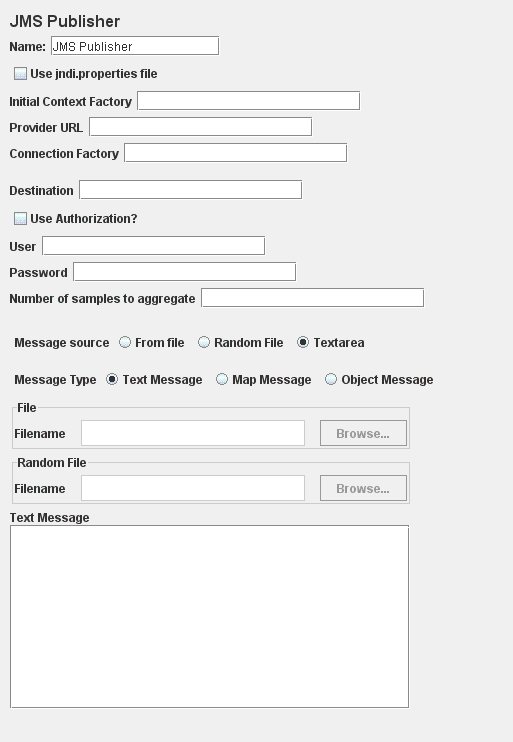
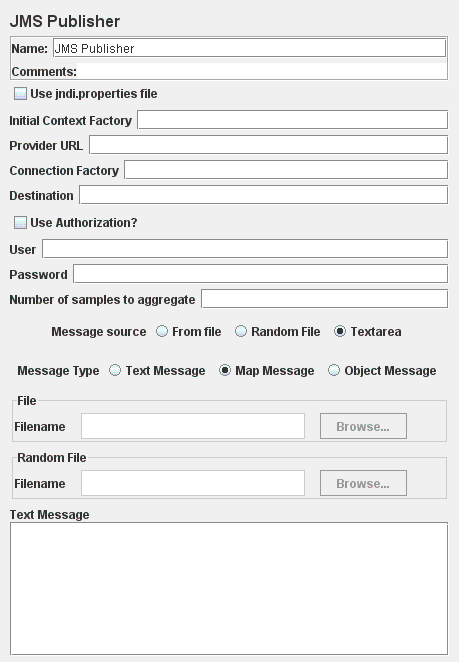
Tidy up the JMS GUIs
git-svn-id: https://svn.apache.org/repos/asf/jakarta/jmeter/trunk@957326 13f79535-47bb-0310-9956-ffa450edef68

Former-commit-id: 39869c7a04cbe3427a2ed4b720968cf6ac578c7e

diff --git a/src/protocol/jms/org/apache/jmeter/protocol/jms/control/gui/JMSPublisherGui.java b/src/protocol/jms/org/apache/jmeter/protocol/jms/control/gui/JMSPublisherGui.java
@@ -18,36 +18,31 @@
 
 package org.apache.jmeter.protocol.jms.control.gui;
 
+import java.awt.BorderLayout;
 import java.awt.Dimension;
-import java.awt.Font;
-import java.awt.event.ActionEvent;
 
 import javax.swing.JCheckBox;
 import javax.swing.JOptionPane;
-import javax.swing.JLabel;
 import javax.swing.JPanel;
-import javax.swing.border.Border;
-import javax.swing.border.EmptyBorder;
 import javax.swing.event.ChangeEvent;
 import javax.swing.event.ChangeListener;
 
+import org.apache.jmeter.gui.util.FilePanel;
+import org.apache.jmeter.gui.util.JLabeledRadioI18N;
+import org.apache.jmeter.gui.util.VerticalPanel;
+import org.apache.jmeter.protocol.jms.sampler.PublisherSampler;
 import org.apache.jmeter.samplers.gui.AbstractSamplerGui;
 import org.apache.jmeter.testelement.TestElement;
 import org.apache.jmeter.util.JMeterUtils;
-import org.apache.jmeter.gui.util.FilePanel;
-import org.apache.jmeter.gui.util.JLabeledRadioI18N;
-import org.apache.jorphan.gui.JLabeledTextField;
 import org.apache.jorphan.gui.JLabeledTextArea;
-import org.apache.jorphan.gui.layout.VerticalLayout;
-
-import org.apache.jmeter.protocol.jms.sampler.PublisherSampler;
+import org.apache.jorphan.gui.JLabeledTextField;
 
 /**
  * This is the GUI for JMS Publisher <br>
  * Created on: October 13, 2003
  *
  */
-public class JMSPublisherGui extends AbstractSamplerGui implements java.awt.event.ActionListener, ChangeListener {
+public class JMSPublisherGui extends AbstractSamplerGui implements ChangeListener {
 
     private static final long serialVersionUID = 240L;
 
@@ -101,10 +96,6 @@ public class JMSPublisherGui extends AbstractSamplerGui implements java.awt.even
     private final JLabeledTextArea textMessage = new JLabeledTextArea(JMeterUtils.getResString("jms_text_message"));
 
     private final JLabeledRadioI18N msgChoice = new JLabeledRadioI18N("jms_message_type", MSGTYPES_ITEMS, TEXT_MSG_RSC); //$NON-NLS-1$
-
-    private final JPanel lookup = new JPanel();
-
-    private final JPanel messagePanel = new JPanel();
 
     public JMSPublisherGui() {
         init();
@@ -169,59 +160,35 @@ public class JMSPublisherGui extends AbstractSamplerGui implements java.awt.even
      * SOAPSampler, since it is common.
      */
     private void init() {
-        this.setLayout(new VerticalLayout(5, VerticalLayout.LEFT, VerticalLayout.TOP));
+        setLayout(new BorderLayout());
+        setBorder(makeBorder());
+        add(makeTitlePanel(), BorderLayout.NORTH);
 
-        // MAIN PANEL
-        JPanel mainPanel = new JPanel();
-        Border margin = new EmptyBorder(10, 10, 5, 10);
-        mainPanel.setBorder(margin);
-        mainPanel.setLayout(new VerticalLayout(5, VerticalLayout.LEFT));
+        JPanel mainPanel = new VerticalPanel();
+        add(mainPanel, BorderLayout.CENTER);
+        
+        mainPanel.add(useProperties);
+        mainPanel.add(jndiICF);
+        mainPanel.add(urlField);
+        mainPanel.add(jndiConnFac);
+        mainPanel.add(jmsDestination);
+        mainPanel.add(useAuth);
+        mainPanel.add(jmsUser);
+        mainPanel.add(jmsPwd);
+        mainPanel.add(iterations);
 
-        // TITLE
-        JLabel panelTitleLabel = new JLabel(getStaticLabel());
-        Font curFont = panelTitleLabel.getFont();
-        int curFontSize = curFont.getSize();
-        curFontSize += 4;
-        panelTitleLabel.setFont(new Font(curFont.getFontName(), curFont.getStyle(), curFontSize));
-        mainPanel.add(panelTitleLabel);
-        // NAME
-        mainPanel.add(getNamePanel());
-
-        // Button for browsing webservice wsdl
-
-        lookup.setLayout(new VerticalLayout(6, VerticalLayout.LEFT));
-        mainPanel.add(lookup);
-        lookup.add(useProperties);
-        useProperties.addChangeListener(this);
-        lookup.add(jndiICF);
-        lookup.add(urlField);
-        lookup.add(jndiConnFac);
-
-        configChoice.addChangeListener(this);
-        msgChoice.addChangeListener(this);
-
-        JPanel commonParams = new JPanel();
-        commonParams.setLayout(new VerticalLayout(6, VerticalLayout.LEFT));
-        mainPanel.add(commonParams);
-        commonParams.add(jmsDestination);
-        commonParams.add(useAuth);
-        commonParams.add(jmsUser);
-        commonParams.add(jmsPwd);
-        commonParams.add(iterations);
-
-        messagePanel.setLayout(new VerticalLayout(3, VerticalLayout.LEFT));
-        messagePanel.add(configChoice);
-        messagePanel.add(msgChoice);
-        messagePanel.add(messageFile);
-        messagePanel.add(randomFile);
-        messagePanel.add(textMessage);
-        mainPanel.add(messagePanel);
-
-        Dimension pref = new Dimension(400, 200);
+        mainPanel.add(configChoice);
+        mainPanel.add(msgChoice);
+        mainPanel.add(messageFile);
+        mainPanel.add(randomFile);
+        mainPanel.add(textMessage);
+        Dimension pref = new Dimension(400, 150);
         textMessage.setPreferredSize(pref);
 
-        // we have to add the gui to the change listener
-        this.add(mainPanel);
+        useProperties.addChangeListener(this);
+        useAuth.addChangeListener(this);
+        configChoice.addChangeListener(this);
+        msgChoice.addChangeListener(this);
     }
 
     @Override
@@ -269,31 +236,20 @@ public class JMSPublisherGui extends AbstractSamplerGui implements java.awt.even
     }
 
     /**
-     * method from ActionListener
-     *
-     * @param event
-     *            that occurred
-     */
-    public void actionPerformed(ActionEvent event) {
-    }
-
-    /**
      * When a widget state changes, it will notify this class so we can
      * enable/disable the correct items.
      */
     public void stateChanged(ChangeEvent event) {
-        if (event.getSource() == this.configChoice) {
-            updateConfig(this.configChoice.getText());
-        } else if (event.getSource() == this.msgChoice) {
-            updateMessageType(this.msgChoice.getText());
+        if (event.getSource() == configChoice) {
+            updateConfig(configChoice.getText());
+        } else if (event.getSource() == msgChoice) {
+            updateMessageType(msgChoice.getText());
         } else if (event.getSource() == useProperties) {
-            if (useProperties.isSelected()) {
-                this.jndiICF.setEnabled(false);
-                this.urlField.setEnabled(false);
-            } else {
-                this.jndiICF.setEnabled(true);
-                this.urlField.setEnabled(true);
-            }
+            jndiICF.setEnabled(!useProperties.isSelected());
+            urlField.setEnabled(!useProperties.isSelected());
+        } else if (event.getSource() == useAuth) {
+            jmsUser.setEnabled(!useAuth.isSelected());
+            jmsPwd.setEnabled(!useAuth.isSelected());
         }
     }
 

diff --git a/src/protocol/jms/org/apache/jmeter/protocol/jms/control/gui/JMSSubscriberGui.java b/src/protocol/jms/org/apache/jmeter/protocol/jms/control/gui/JMSSubscriberGui.java
@@ -18,31 +18,26 @@
 
 package org.apache.jmeter.protocol.jms.control.gui;
 
-import java.awt.Font;
-import java.awt.event.ActionEvent;
+import java.awt.BorderLayout;
 
 import javax.swing.JCheckBox;
-import javax.swing.JLabel;
 import javax.swing.JPanel;
-import javax.swing.border.Border;
-import javax.swing.border.EmptyBorder;
 import javax.swing.event.ChangeEvent;
 import javax.swing.event.ChangeListener;
 
+import org.apache.jmeter.gui.util.JLabeledRadioI18N;
+import org.apache.jmeter.gui.util.VerticalPanel;
+import org.apache.jmeter.protocol.jms.sampler.SubscriberSampler;
 import org.apache.jmeter.samplers.gui.AbstractSamplerGui;
 import org.apache.jmeter.testelement.TestElement;
 import org.apache.jmeter.util.JMeterUtils;
 import org.apache.jorphan.gui.JLabeledTextField;
-import org.apache.jorphan.gui.layout.VerticalLayout;
-
-import org.apache.jmeter.gui.util.JLabeledRadioI18N;
-import org.apache.jmeter.protocol.jms.sampler.SubscriberSampler;
 
 /**
  * This is the GUI for JMS Subscriber <br>
  *
  */
-public class JMSSubscriberGui extends AbstractSamplerGui implements java.awt.event.ActionListener, ChangeListener {
+public class JMSSubscriberGui extends AbstractSamplerGui implements ChangeListener {
 
     private static final long serialVersionUID = 240L;
 
@@ -76,7 +71,7 @@ public class JMSSubscriberGui extends AbstractSamplerGui implements java.awt.eve
     private final JCheckBox readResponse =
         new JCheckBox(JMeterUtils.getResString("jms_read_response"), true); // $NON-NLS-1$
 
-    private JLabeledTextField timeout = 
+    private final JLabeledTextField timeout = 
         new JLabeledTextField(JMeterUtils.getResString("jms_timeout")); //$NON-NLS-1$
 
     //++ Do not change these strings; they are used in JMX files to record the button settings
@@ -90,8 +85,6 @@ public class JMSSubscriberGui extends AbstractSamplerGui implements java.awt.eve
 
     private final JLabeledRadioI18N clientChoice =
         new JLabeledRadioI18N("jms_client_type", CLIENT_ITEMS, RECEIVE_RSC); // $NON-NLS-1$
-
-    private final JPanel lookup = new JPanel();
 
     public JMSSubscriberGui() {
         init();
@@ -137,48 +130,29 @@ public class JMSSubscriberGui extends AbstractSamplerGui implements java.awt.eve
      * SOAPSampler, since it is common.
      */
     private void init() {
-        this.setLayout(new VerticalLayout(5, VerticalLayout.LEFT, VerticalLayout.TOP));
+        setLayout(new BorderLayout());
+        setBorder(makeBorder());
+        add(makeTitlePanel(), BorderLayout.NORTH);
 
-        // MAIN PANEL
-        JPanel mainPanel = new JPanel();
-        Border margin = new EmptyBorder(10, 10, 5, 10);
-        mainPanel.setBorder(margin);
-        mainPanel.setLayout(new VerticalLayout(5, VerticalLayout.LEFT));
+        JPanel mainPanel = new VerticalPanel();
+        add(mainPanel, BorderLayout.CENTER);
+        
+        mainPanel.add(useProperties);
+        mainPanel.add(jndiICF);
+        mainPanel.add(urlField);
+        mainPanel.add(jndiConnFac);
+        mainPanel.add(jmsDestination);
+        mainPanel.add(useAuth);
+        mainPanel.add(jmsUser);
+        mainPanel.add(jmsPwd);
+        mainPanel.add(iterations);
 
-        // TITLE
-        JLabel panelTitleLabel = new JLabel(getStaticLabel());
-        Font curFont = panelTitleLabel.getFont();
-        int curFontSize = curFont.getSize();
-        curFontSize += 4;
-        panelTitleLabel.setFont(new Font(curFont.getFontName(), curFont.getStyle(), curFontSize));
-        mainPanel.add(panelTitleLabel);
-        // NAME
-        mainPanel.add(getNamePanel());
+        mainPanel.add(readResponse);
+        mainPanel.add(timeout);
+        mainPanel.add(clientChoice);
 
-        // Button for browsing webservice wsdl
-
-        lookup.setLayout(new VerticalLayout(6, VerticalLayout.LEFT));
-        mainPanel.add(lookup);
-        lookup.add(useProperties);
         useProperties.addChangeListener(this);
-        lookup.add(jndiICF);
-        lookup.add(urlField);
-        lookup.add(jndiConnFac);
-
-        JPanel commonParams = new JPanel();
-        commonParams.setLayout(new VerticalLayout(6, VerticalLayout.LEFT));
-        mainPanel.add(commonParams);
-        commonParams.add(jmsDestination);
-        commonParams.add(useAuth);
-        commonParams.add(jmsUser);
-        commonParams.add(jmsPwd);
-        commonParams.add(iterations);
-        commonParams.add(readResponse);
-        commonParams.add(timeout);
-        commonParams.add(clientChoice);
-
-        // we have to add the gui to the change listener
-        this.add(mainPanel);
+        useAuth.addChangeListener(this);
     }
 
     /**
@@ -220,29 +194,16 @@ public class JMSSubscriberGui extends AbstractSamplerGui implements java.awt.eve
     }
 
     /**
-     * method from ActionListener
-     *
-     * @param event
-     *            that occurred
-     */
-    public void actionPerformed(ActionEvent event) {
-        if (event.getSource() == useProperties) {
-        }
-    }
-
-    /**
      * When the state of a widget changes, it will notify the gui. the method
      * then enables or disables certain parameters.
      */
     public void stateChanged(ChangeEvent event) {
         if (event.getSource() == useProperties) {
-            if (useProperties.isSelected()) {
-                this.jndiICF.setEnabled(false);
-                this.urlField.setEnabled(false);
-            } else {
-                this.jndiICF.setEnabled(true);
-                this.urlField.setEnabled(true);
-            }
+            jndiICF.setEnabled(!useProperties.isSelected());
+            urlField.setEnabled(!useProperties.isSelected());
+        } else if (event.getSource() == useAuth) {
+            jmsUser.setEnabled(!useAuth.isSelected());
+            jmsPwd.setEnabled(!useAuth.isSelected());
         }
     }
 }

diff --git a/src/protocol/jms/org/apache/jmeter/protocol/jms/control/gui/JMSSamplerGui.java b/src/protocol/jms/org/apache/jmeter/protocol/jms/control/gui/JMSSamplerGui.java
@@ -186,8 +186,6 @@ public class JMSSamplerGui extends AbstractSamplerGui {
         setBorder(makeBorder());
         add(makeTitlePanel(), BorderLayout.NORTH);
 
-        Box mainPanel = Box.createVerticalBox();
-
         JPanel jmsQueueingPanel = new JPanel(new BorderLayout());
         jmsQueueingPanel.setBorder(BorderFactory.createTitledBorder(BorderFactory.createEtchedBorder(),
                 JMeterUtils.getResString("jms_queueing"))); //$NON-NLS-1$
@@ -203,8 +201,6 @@ public class JMSSamplerGui extends AbstractSamplerGui {
         JPanel receiveQueuePanel = new JPanel(new BorderLayout(5, 0));
         receiveQueuePanel.add(receiveQueue);
         jmsQueueingPanel.add(receiveQueuePanel, BorderLayout.SOUTH);
-
-        JPanel jndiPanel = createJNDIPanel();
 
         JPanel messagePanel = new JPanel(new BorderLayout());
         messagePanel.setBorder(BorderFactory.createTitledBorder(BorderFactory.createEtchedBorder(),
@@ -243,11 +239,13 @@ public class JMSSamplerGui extends AbstractSamplerGui {
         jmsPropertiesPanel = new ArgumentsPanel(JMeterUtils.getResString("jms_props")); //$NON-NLS-1$
         messagePanel.add(jmsPropertiesPanel, BorderLayout.SOUTH);
 
+        Box mainPanel = Box.createVerticalBox();
+        add(mainPanel, BorderLayout.CENTER);
         mainPanel.add(jmsQueueingPanel, BorderLayout.NORTH);
         mainPanel.add(messagePanel, BorderLayout.CENTER);
+        JPanel jndiPanel = createJNDIPanel();
         mainPanel.add(jndiPanel, BorderLayout.SOUTH);
 
-        add(mainPanel, BorderLayout.CENTER);
     }
 
     /**
